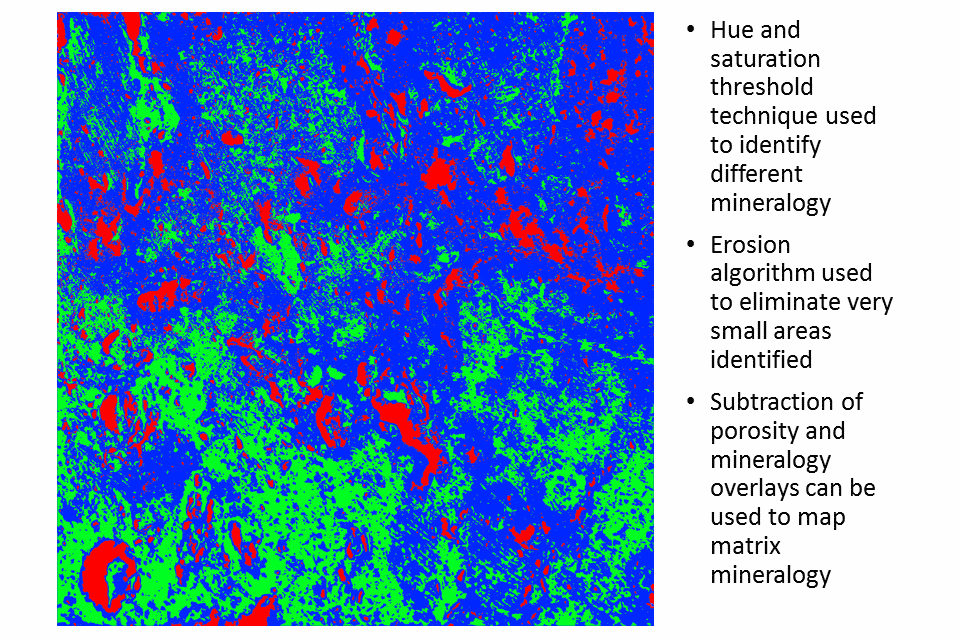
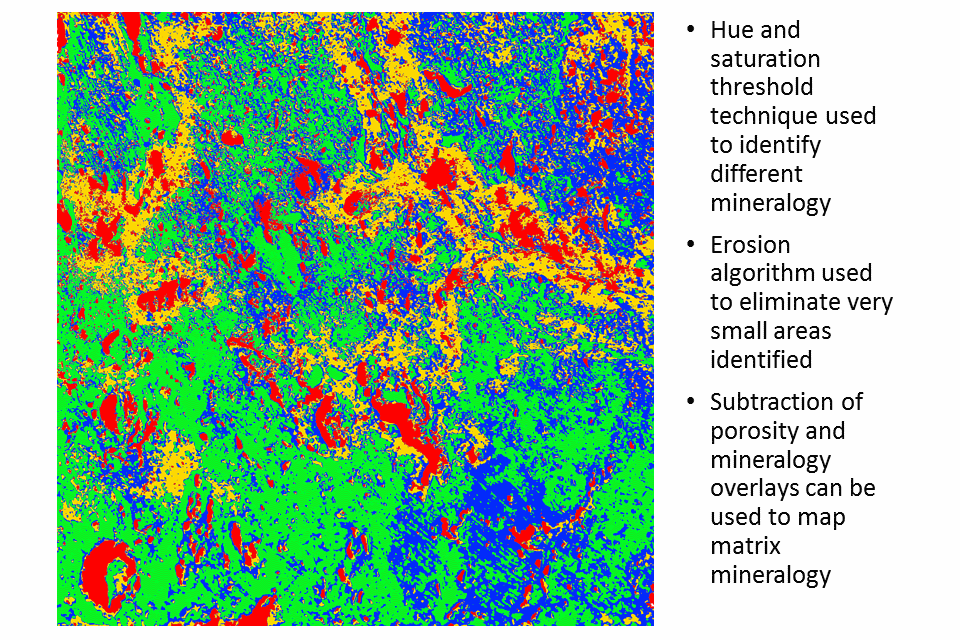
Added post
Visual analysis of core porosity.

diff --git a/_posts/analysis/2014-11-27-visual-core-analysis.md b/_posts/analysis/2014-11-27-visual-core-analysis.md
@@ -1,0 +1,139 @@
+---
+layout: article
+title: Visual Core Analysis
+modified:
+categories: analysis
+excerpt: Using ImageJ image processing software to determine visual porosity in carbonate cores.
+tags: [pasca, core_analysis, research, image_processing]
+image:
+  feature: 
+  teaser: teaser-visual-core-analysis-400x250.jpg
+  thumb:
+comments: true
+---
+
+The Pasca A field in the Gulf of Papua was first discovered in 1968. This is a carbonate pinnacle reef structure containing a liquids-rich gas-condensate. During drilling of an appraisal well during 1983 there was a loss of well control event when pulling out of hole prior to logging, and until recently it was believed (mistakenly) that the field no longer contained any recoverable hydrocarbons as a result.
+
+Twinza Oil believes that the field only suffered a minor loss of hydrocarbons, and that there remains a substantial undeveloped resource. The question of course is exactly how large is that resource. One of the uncertainties associated with the resource estimate is the average field porosity. Given that there are only logs available from two wells drilled in 1968 and 1969, plus core from the Pasca A-3 well drilled in 1983, there is not a huge amount of data available. Furthermore the geological model would indicate that the two wells which were logged, were drilled on the flanks of the reef and thus could be associated with a lower porosity than that in the centre of the reef. However the porosity measurements from the core plugs in Pasca A-3 suggest the very opposite; the porosity is lower in the centre of the reef.
+
+## The Core Analysis Challenge
+
+Best practice for any evaluation effort is to start with the raw data itself, and understand the limitations of how it was acquired and interpreted. In the case of Pasca A-3 this was not straightforward as the core recovery was not high to begin with, and the core has been stored in a warehouse in PNG for the last three decades.
+
+Fortunately it was possible to locate most of the core, and thus there is hope that further analysis may prove useful. Given that there is a limited amount of core, the preference is to use non-destructive analytical techniques, such as MRI or CT scanning to build up a picture of the pore space within the core. As a pre-cursor to these activities high resolution photographs of the core were taken, to investigate whether the more expensive scanning techniques would yield any benefits?
+
+An example section from one of the core photographs is shown in Figure 1. This illustrates that there is visible macro porosity in the form of vugs, and this immediately suggests that the reservoir could have a significant porosity. These vugs are easily identified and are associated with flow of fluids through the reef post-deposition, which have contributed to dissolution porosity.
+
+![Evidence of vugs on core]({{ site.url }}/images/visual-core-analysis-slide1.png)
+
+**Figure 1: Evidence of vugs on core.**
+
+Another aspect of porosity development in carbonates is associated with formation of dolomite. Dolomite forms as a result of mineral alteration whereby calcium ions in calcite are replaced by magnesium ions. This is evidence of freshwater incursion into the reef, mixing with saline formation water. As a result of the dolomitization porosity is generated because of a volume reduction in the carbonate matrix.
+
+![Evidence of dolomitic porosity on core]({{ site.url }}/images/visual-core-analysis-slide2.png)
+
+**Figure 2: Evidence of dolomitic porosity on core.**
+
+Analogue carbonate reservoirs with vuggy porosity can easily develop effective porosity of 20 percent or higher. So the apparent history concerning the porosity development is contrary to the 11 percent porosity determined from log interpretation. Is it possible to justify the use of a higher porosity upside in the Pasca A field based on the core? To answer this question it is first necessary to measure the visible porosity from the core photograph.
+
+It should be noted that it is also expected that microporosity will be present in the carbonate matrix, but it is not possible to measure this through a simple visual technique. Therefore any visual porosity estimate technique will be an underestimate of the true porosity.
+
+## Using ImageJ To Calculate Porosity
+
+The [ImageJ open source image processing program](http://imagej.net/Welcome) can be used to manipulate images and identify features. In particular it permits thresholding of an image, whereby an image can be converted to a binary image, by setting specific conditions for characterisation of the image as black or white. Statistics can be calculated for any binary image, at both a pixel level, and also through identification of discrete features. This should allow individual pore spaces to be captured and assessed.
+
+In addition to identification and measurement of porosity, it should be possible to discern between different facies. In particular there are three different categories of carbonate facies that can be distinguished in the core photograph. These are:
+
+1. Biogenically altered facies which have a lighter hue, and are likely to be associated with algal matter.
+2. Dolomotized carbonate which has a darker hue.
+3. Background facies.
+
+The goal is to use ImageJ to separate areas on the core photograph that represent porosity, biogenic facies, dolomite facies and carbonate matrix.
+
+### Extracting Features From Core Photographs
+
+Generally the pore space in the core photograph will be darker. This is because light is reflected off the surface of the core, but there is less light that can enter the pore space directly and thus the pores tend to contain shadow. As a result we can convert the red, green and blue channel (RGB) to hue, saturation and brightness space (HSB), and apply a threshold filter based on brightness.
+
+1. Adjust the image levels using Image/Adjust/Window/Level... and select 'Auto' then 'Apply'
+2. Sharpen the image using Process/Sharpen
+3. Apply a brightness threshold using Image/Adjust/Color Threshold. Choose 'Thresholding method' Yen, 'Threshold color' B&W, 'Color space' HSB.
+4. Using a red threshold colour initially and switching between the original and filtered image can help tweak the cut-off points used in the thresholding
+5. Convert to a binary image using Process/Binary/Make Binary
+6. Remove artefacts from porosity mask using Process/Binary/Dilate followed by Process/Binary/Fill Holes
+
+The results are shown in Figure 3.
+
+![Porosity identified from brightness threshold]({{ site.url }}/images/visual-core-analysis-slide3.png)
+
+**Figure 3: Porosity identified from brightness threshold.**
+
+A similar strategy can be employed to distinguish the difference facies in the non-porosity areas of the image. In this instance the very lighter and darker areas of the image have been distinguished using the same threshold technique, but by adjusting the hue and saturation filters. Care has to be taken to avoid falsely identifying areas within the already identified porosity or identifying any pixel as belonging to two facies groups. This can be achieved through subtraction of one image from another using Process/Image Calculator... The results are shown in Figure 4.
+
+![Facies identified from saturation threshold]({{ site.url }}/images/visual-core-analysis-slide4.png)
+
+**Figure 4: Facies identified from saturation threshold.**
+
+Here we have categorised our original image into four different groups. The red areas represent porosity, with contribution from both the vugs and smaller pores. The green areas are the very light carbonate rock fabric which could be associated with biological matter. The yellow areas are the darker carbonate rock fabric which could be associated with dolotomisation and the blue area is simply what is left over. This is the base carbonate matrix.
+
+The image reveals some interesting features of the reservoir. We can see that areas of dolomitisation tend to lie along linear trends which could represent fluid flow through the reservoir. These fluids have chemically altered the base rock matrix to cause the dolomotisation. Furthermore the fluid flow may have created vugs, and there are more vugs close to the potential fluid flow pathways. Small pore spaces are more prevalent in areas of dolotomisation and away from biological matter. This might be expected because the dolotomisation contributes to the formation of pore space as a result of fluid flow through the reservoir, but the biological matter restricts flow of fluids through the carbonate, so there is less dolomotisation in those areas. Vugs presents in areas of biological matter could be created through larger organisms that have decayed, and are thus different to the vugs in the dolotomised regions which might have resulted from fluid flow.
+
+Whilst the image analysis is a relatively straightfoward technique, it does help us to understand that there is very likely to have been fluid flow in the reservoir, and that therefore there is very likely to be good permeability in the reservoir. We can also recognise using our image processing the two main types of porosity that are revealed through visual examination of the core.
+
+### Porosity Calculation From Binary Mask
+
+Calculation of porosity from a binary image is relatively simple using ImageJ. ImageJ will measure various image statistics when the Analyze/Measure command is run. The statistics to measure can be set from Analyze/Set Measurements... command. For the calculation of porosity we must ensure that the 'Area' and 'Area fraction' options have been selected.
+
+Once the measurements have been selected calculation of porosity is simple:
+
+1. Select the binary image where porosity is identified as black pixels and matrix as white pixels
+2. Run command Analyze/Measure
+3. Porosity is shown in the '%Area' column of the Results window that is produced
+
+The calculated porosity using the porosity mask generated from our core photograph is shown in Figure 5. This indicates that porosity of the image shown is 10.4 percent.
+
+![Calculated porosity from binary porosity layer]({{ site.url }}/images/visual-core-analysis-slide5.png)
+
+**Figure 5: Calculated porosity from binary porosity layer.**
+
+Note that this whilst this technique can quickly produce an indicative measurement for the porosity, it does have some shortcomings:
+
+* Not all porosity is captured by the threshold technique. In particular larger vugs do not produce a dramatic brightness contrast across the entire pore as light can more easily penetrate into the pore space, whereas smaller pores can be easily identified. Similarly areas of darker rock facies can be mistaken for porosity. A visual comparison between the core photograph and the porosity mask suggests that the porosity measured using this technique is likely to be a slight underestimate.
+* Only porosity that can be visually identified will be measured using this technique. Thus any microporosity will not be included in the measured porosity.
+
+It may be necessary when calculating porosity to exclude certain parts of the image. This can be achieved by measuring the statistics within the area to be excluded, and then adjusting the statistics for the whole image to account for the difference. This is a straightforward calculation.
+
+1. Draw an area on the binary image that is to be excluded
+2. Run command Analyze/Measure
+3. Results window should now show an additional row which includes statistics for the excluded area only
+4. Adjust porosity calculation using the equation `((img_area * img_area_pct) - (excl_area * excl_area_pct)) / (img_area - excl_area)`
+
+### Understanding Porosity Distribution
+
+The core photograph shows a visual porosity measurement of 10.4 percent which agrees quite well with the log measured porosity of 11 percent. If the reservoir was relative homogeneous, then we might conclude that there is no apparent difference in porosity revealed by the core at the centre of the reef versus that interpreted from logs at the flanks of the reef.
+
+The reef is not homogeneous, and other sections of core exhibit more prevalent vugginess. An example of this is shown in Figure 6. This core photograph has been analysed using the excluded area technique because part of the core was removed to take a core plug. Records indicate that the laboratory measured porosity for the core plug was just 7.8 percent; even lower than the 11 percent interpreted from the logs. Reliance on this core porosity without examination of the core might lead to a belief that the reef does not develop good porosity in the centre. Yet it can clearly be seen that there are extensive large vugs in the core.
+
+![Comparison of visual porosity estimate against measured core plug porosity]({{ site.url }}/images/visual-core-analysis-slide6.png)
+
+**Figure 6: Comparison of visual porosity estimate against measured core plug porosity.**
+
+The visual porosity estimate is 14.6 percent. This is nearly twice as high as the core measured porosity. Does this mean that the core measured porosity or the visual porosity estimate is wrong? Not at all. Any core plug is very likely to be taken from a section of the core that is competent and can from which porosity can easily be measured using laboratory techniques. The intent would therefore be to avoid taking a core plug through the vuggiest part of the core. As such the core plug is only measuring part of the porosity.
+
+In order to understand this more clearly, we can look at the porosity distribution. By taking our binary mask for porosity, we can filter the image based on the areas of discrete features. In Figure 7 we have assigned features into five different area bins: 0-49 pixels, 50-99 pixels, 100-149 pixels, 150-199 pixels and 200+ pixels.
+
+![Porosity distribution from pore size bins]({{ site.url }}/images/visual-core-analysis-slide7.png)
+
+**Figure 7: Porosity distribution from pore size bins.**
+
+This porosity calculated for each bin image helps to understand the nature of the porosity distribution in the reef.
+
+* There is more porosity contribution from very small pores than from medium sized pores. The overall porosity from small to medium size pores is 5.6 percent, which is in line with the core plug measured porosity of 7.8 percent.
+* Over half of the porosity is associated with larger pores and vugs.
+
+This reveals that porosity in the Pasca A reef is not a straightforward property to characterise, but there is evidence that the average porosity might be higher than that calculated from logs on the flanks of the reef. It should be noted that the poor core recovery, drilling breaks and loss of circulation during drilling are consistent with a porosity model that also includes some porosity contribution from very large dissolution features.
+
+## Conclusions
+
+A visual technique has been used to estimate porosity in the Pasca A reef. The technique combines digital photographs of the core surface with image processing algorithms to calculate the porosity. The technique is also able to distinguish between different types of porosity, and the relative contribution from each.
+
+The technique is non-destructive, cheap and fast. By examining the original core and using this simple first principles approach, a case can be made to support the use of more sophisticated techniques to image the core porosity in three dimensions. Doing so will help to understand the geological processes that were present post-deposition, and help understand the upside potential for porosity in the field.
